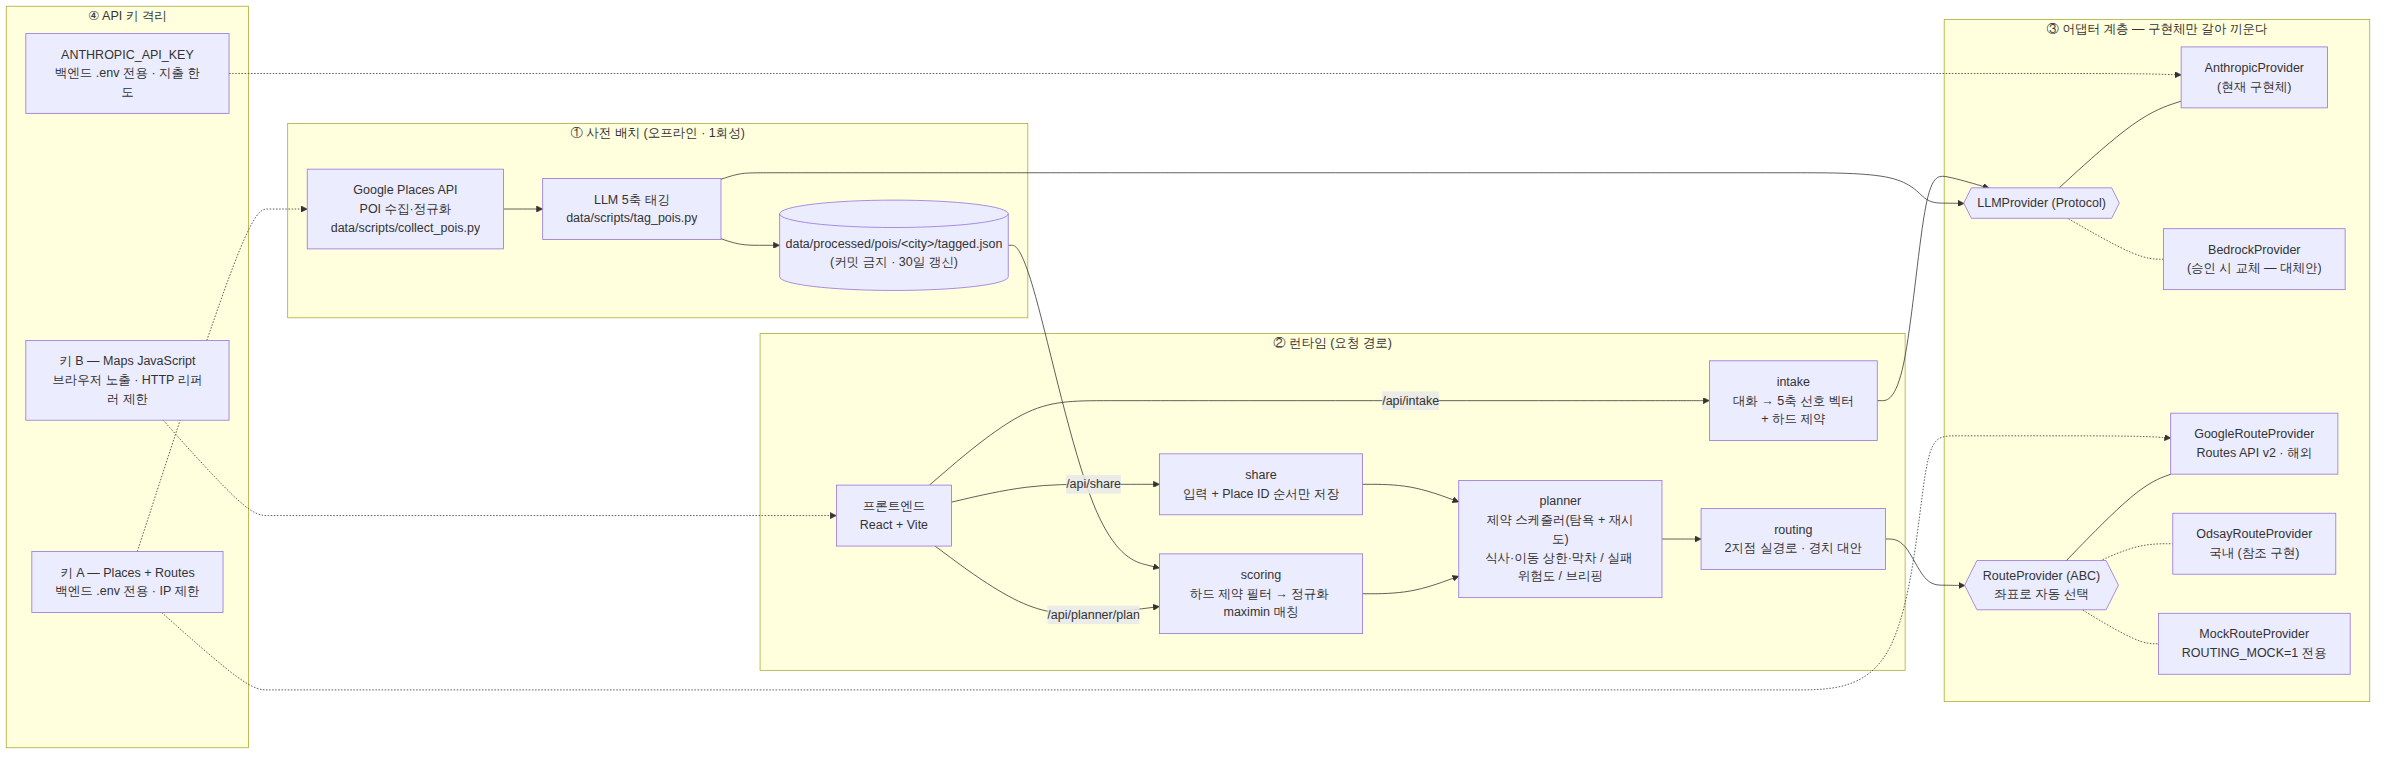
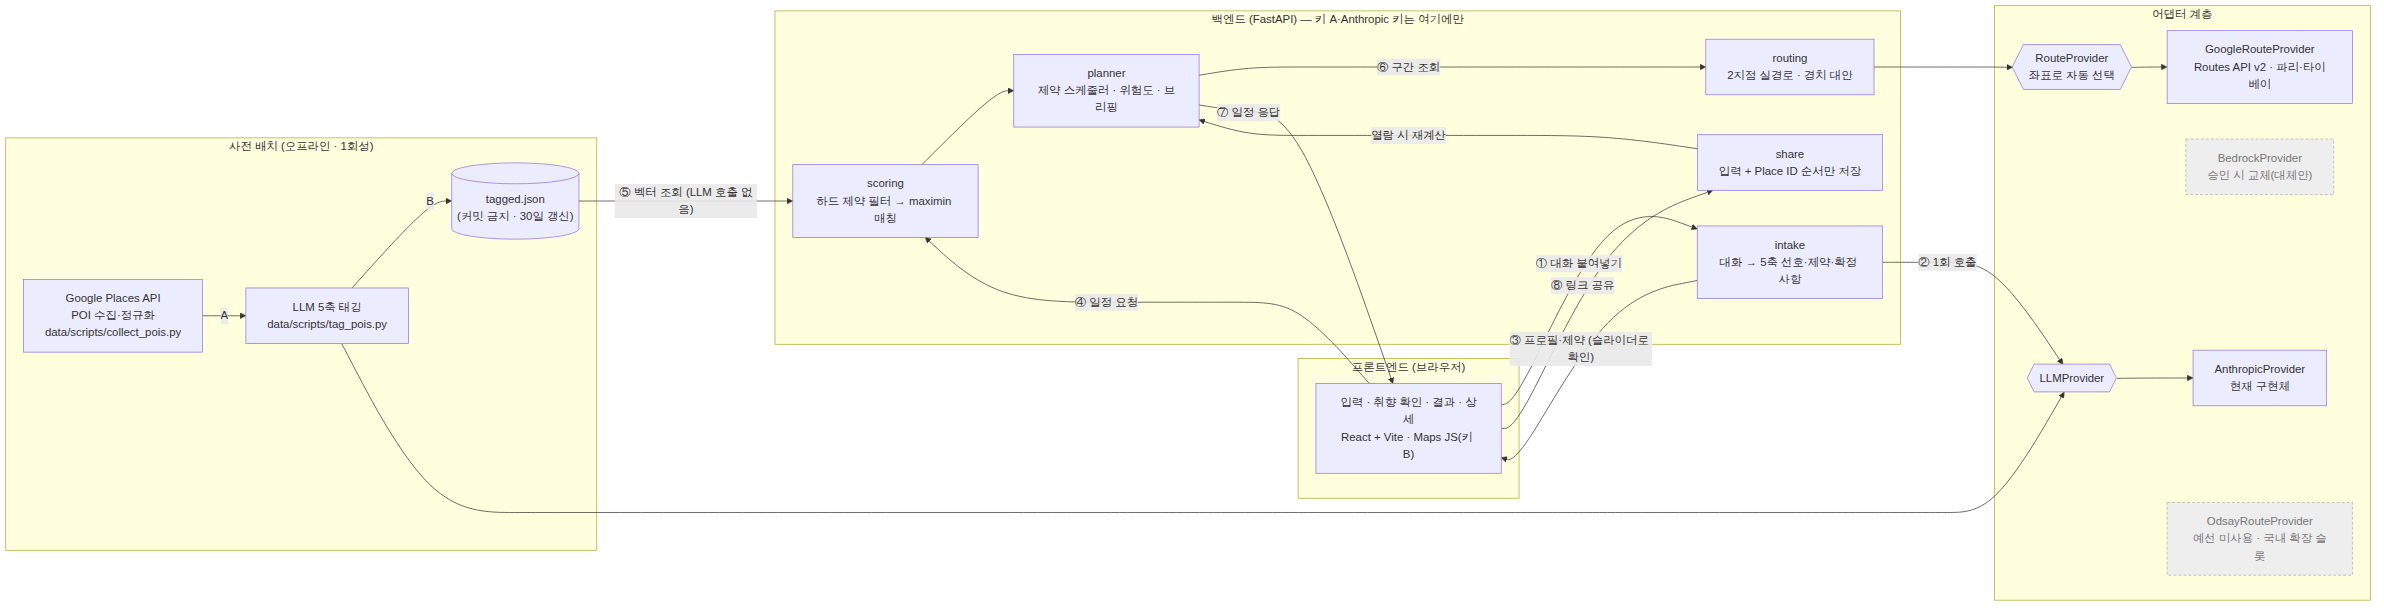
docs: 아키텍처도에 요청 순서 번호(①~⑧·A·B), 미사용 확장 슬롯(Bedrock·ODsay) 회색 표기, 편집 원본(.mmd)
Claude-Session: https://claude.ai/code/session_01BagVdaAqXfHLnt8N18wEpb

diff --git a/docs/ARCHITECTURE.md b/docs/ARCHITECTURE.md
@@ -7,63 +7,58 @@
 
 ```mermaid
 flowchart LR
-    subgraph OFFLINE["① 사전 배치 (오프라인 · 1회성)"]
+    subgraph OFFLINE["사전 배치 (오프라인 · 1회성)"]
         direction TB
         PLACES["Google Places API<br/>POI 수집·정규화<br/>data/scripts/collect_pois.py"]
         TAG["LLM 5축 태깅<br/>data/scripts/tag_pois.py"]
-        STORE[("data/processed/pois/&lt;city&gt;/tagged.json<br/>(커밋 금지 · 30일 갱신)")]
-        PLACES --> TAG --> STORE
+        STORE[("tagged.json<br/>(커밋 금지 · 30일 갱신)")]
+        PLACES -->|"A"| TAG -->|"B"| STORE
     end
 
-    subgraph RUNTIME["② 런타임 (요청 경로)"]
+    subgraph FRONT["프론트엔드 (브라우저)"]
+        UI["입력 · 취향 확인 · 결과 · 상세<br/>React + Vite · Maps JS(키 B)"]
+    end
+
+    subgraph BACK["백엔드 (FastAPI) — 키 A·Anthropic 키는 여기에만"]
         direction TB
-        UI["프론트엔드<br/>React + Vite"]
-        INTAKE["intake<br/>대화 → 5축 선호 벡터<br/>+ 하드 제약"]
-        SCORE["scoring<br/>하드 제약 필터 → 정규화 maximin 매칭"]
-        PLAN["planner<br/>제약 스케줄러(탐욕 + 재시도)<br/>식사·이동 상한·막차 / 실패 위험도 / 브리핑"]
+        INTAKE["intake<br/>대화 → 5축 선호·제약·확정 사항"]
+        SCORE["scoring<br/>하드 제약 필터 → maximin 매칭"]
+        PLAN["planner<br/>제약 스케줄러 · 위험도 · 브리핑"]
         ROUTE["routing<br/>2지점 실경로 · 경치 대안"]
         SHARE["share<br/>입력 + Place ID 순서만 저장"]
-        UI -->|"/api/intake"| INTAKE
-        UI -->|"/api/planner/plan"| SCORE --> PLAN --> ROUTE
-        UI -->|"/api/share"| SHARE --> PLAN
     end
 
-    subgraph ADAPTERS["③ 어댑터 계층 — 구현체만 갈아 끼운다"]
+    subgraph ADAPT["어댑터 계층"]
         direction TB
-        LLMP{{"LLMProvider (Protocol)"}}
-        ANTH["AnthropicProvider<br/>(현재 구현체)"]
-        BED["BedrockProvider<br/>(승인 시 교체 — 대체안)"]
-        RP{{"RouteProvider (ABC)<br/>좌표로 자동 선택"}}
-        GOOG["GoogleRouteProvider<br/>Routes API v2 · 해외"]
-        ODSAY["OdsayRouteProvider<br/>국내 (참조 구현)"]
-        MOCK["MockRouteProvider<br/>ROUTING_MOCK=1 전용"]
-        LLMP --- ANTH
-        LLMP -.- BED
-        RP --- GOOG
-        RP -.- ODSAY
-        RP -.- MOCK
+        LLMP{{"LLMProvider"}}
+        ANTH["AnthropicProvider<br/>현재 구현체"]
+        BED["BedrockProvider<br/>승인 시 교체(대체안)"]:::idle
+        RP{{"RouteProvider<br/>좌표로 자동 선택"}}
+        GOOG["GoogleRouteProvider<br/>Routes API v2 · 파리·타이베이"]
+        ODSAY["OdsayRouteProvider<br/>예선 미사용 · 국내 확장 슬롯"]:::idle
     end
 
-    STORE --> SCORE
+    UI -->|"① 대화 붙여넣기"| INTAKE
+    INTAKE -->|"② 1회 호출"| LLMP --> ANTH
+    INTAKE -->|"③ 프로필·제약 (슬라이더로 확인)"| UI
+    UI -->|"④ 일정 요청"| SCORE
+    STORE -->|"⑤ 벡터 조회 (LLM 호출 없음)"| SCORE
+    SCORE --> PLAN -->|"⑥ 구간 조회"| ROUTE --> RP --> GOOG
+    PLAN -->|"⑦ 일정 응답"| UI
+    UI -->|"⑧ 링크 공유"| SHARE -->|"열람 시 재계산"| PLAN
     TAG --> LLMP
-    INTAKE --> LLMP
-    ROUTE --> RP
 
-    subgraph KEYS["④ API 키 격리"]
-        direction TB
-        KA["키 A — Places + Routes<br/>백엔드 .env 전용 · IP 제한"]
-        KB["키 B — Maps JavaScript<br/>브라우저 노출 · HTTP 리퍼러 제한"]
-        KC["ANTHROPIC_API_KEY<br/>백엔드 .env 전용 · 지출 한도"]
-    end
-    KA -.-> GOOG
-    KA -.-> PLACES
-    KB -.-> UI
-    KC -.-> ANTH
+    classDef idle fill:#eeeeee,stroke:#aaaaaa,color:#777777,stroke-dasharray: 4 3
 ```
+
+번호 = 요청이 흐르는 순서. ①~⑦ 이 한 번의 일정 생성이고 ⑧ 은 공유다. A·B 는 요청과 무관한 사전 배치.
+회색 점선 박스(Bedrock·ODsay)는 **코드는 있지만 예선에서 호출하지 않는** 확장 슬롯이라 연결선을 긋지 않았다.
+예선에서 실제로 부르는 외부 API 는 Google Routes v2 · Google Places(사전 배치) · Anthropic 세 가지뿐이다.
+원본(편집 가능): 이 코드 블록 = `docs/architecture.mmd`, 이미지 = `docs/images/architecture.png`.
 
 ## 2. 설계 포인트 4가지
 
-### ① 사전 배치 태깅 vs 런타임 호출 분리 — 런타임 LLM 호출 최소화
+### ① 사전 배치 태깅 vs 런타임 호출 분리 (A·B vs ①~⑦) — 런타임 LLM 호출 최소화
 
 | 단계 | LLM 호출 | 이유 |
 |------|---------|------|
@@ -93,6 +88,7 @@ flowchart LR
 ### ④ API 키 백엔드 격리
 
 - 키 A(Routes·Places)는 백엔드 `.env` 에만 있고 IP 제한이 걸려 있다. 프론트는 `/api` 만 부른다.
+- 그림에서 "백엔드" 경계 안에만 키 A·Anthropic 키가 있다.
 - 키 B(Maps JS)는 브라우저에 노출되는 대신 HTTP 리퍼러 제한 + Maps JavaScript API 전용.
   하나로 합치면 노출된 키로 누구나 우리 결제 계정의 Routes 를 무제한 호출할 수 있다.
 - CI 가 `.env`/`.env.local` 커밋을 막는다(`.github/workflows/ci.yml`).
